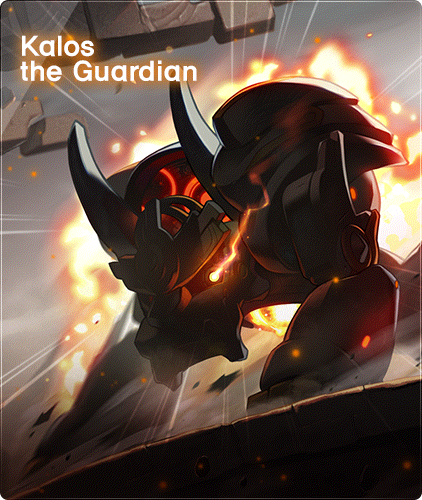
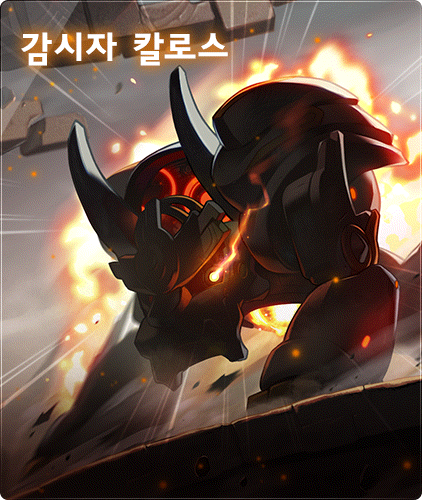
보스 정보 카드 큰 그림을 한글판으로: KMS 22장·벨로나, 아케치·노히메는 일본어판
- KMS v.389 UI/UIBoss.img 보스 목록 큰 그림 22장. 서버마다 번호가 달라 GMS 그림과 글자 아래쪽 모양을 대조해 짝지음. 스우는 KMS판이 다른 일러스트
- 벨로나: 메이플 위키의 KMS 보스 UI 그림, 카드에 새로 연결
- 아케치·노히메: KMS에 없는 일본 보스라 JMS v.444 그림
- 림보·발드릭스·최초의 대적자·찬란한 흉성·유피테르는 한글판을 아직 못 구해 GMS 그림 그대로
- 카드 그림 주소에 ?v를 붙여 서비스 워커가 옛 그림을 내주지 않게

Changed region(s): [[0.0308, 0.03, 0.5545, 0.18]]

diff --git a/GMS_WEEK_BOSS/bosshp.js b/GMS_WEEK_BOSS/bosshp.js
@@ -9,6 +9,10 @@ const _bhpDiffMeta = kr => DIFF_META[DIFF_KR_TO_ENG[kr] || 'normal'];
 // 파일명 stem(Bellona)으로 images/bosses_gif/Bellona.gif 를 자동으로 찾아간다.
 // 배포 환경(리눅스)은 대소문자를 구분하므로 png/gif의 stem 대소문자가 정확히 같아야 한다.
 const BOSS_IMG_EXTRA = { '벨로나': 'images/bosses/Bellona.png' };
+// 위와 같은 보스의 카드 그림 파일 이름. images/official/boss_card/<이름>.png
+const BOSS_CARD_EXTRA = { '벨로나': 'bellona' };
+// 카드 그림을 같은 파일 이름으로 바꿀 때 서비스 워커가 옛 그림을 내주지 않도록 v를 올린다
+const _bhpCardSrc = id => `images/official/boss_card/${id}.png?v=20261031a`;
 const bossHPActiveDiffs = {};
 const busChecked = new Set(); // 버스 참조에 추가된 보스명
 const busDiffs   = {};        // 버스 패널 전용 난이도 선택
@@ -270,15 +274,22 @@ function renderBossHPTable() {
     seen[b.name].diffs.push(b);
   });
 
-  /* 카드 그림은 GMS v.270 게임 파일 UI/UIBoss.img 보스 목록의 큰 그림 422×500이고 영문 보스 이름이 그림에 들어 있다.
+  /* 카드 그림은 게임 파일 UI/UIBoss.img 보스 목록의 큰 그림 422×500이고 보스 이름 글자가 그림에 들어 있다. 지수 요청으로 한글판을 쓴다.
+     - KMS v.389 그림 22장: 서버마다 번호가 달라 GMS 그림과 글자 아래쪽 모양을 대조해 짝지었다. 스우는 KMS 그림이 GMS와 다른 일러스트다
+     - 벨로나: 메이플 위키에 올라온 KMS 그림
+     - 아케치·노히메: KMS에 없는 일본 보스라 JMS v.444 일본어 그림
+     - 림보·발드릭스·최초의 대적자·찬란한 흉성·유피테르: KMS v.389 뒤에 나와 한글판을 아직 못 구해 GMS 영문 그림
      boss.img는 드랍 팝업이 GIF를 찾는 이름으로 쓰므로 그대로 두고 카드 그림만 따로 든다 */
   BOSS_DATA.forEach(bd => {
     const key = Object.keys(seen).find(k => norm(k) === norm(bd.name));
-    if (key) { seen[key].img = bd.img; seen[key].card = `images/official/boss_card/${bd.id}.png`; seen[key].monthly = !!bd.monthly; }
+    if (key) { seen[key].img = bd.img; seen[key].card = _bhpCardSrc(bd.id); seen[key].monthly = !!bd.monthly; }
   });
-  // 보스 수익 계산기(BOSS_DATA)엔 없고 이 페이지에만 있는 보스의 이미지(BOSS_IMG_EXTRA).
+  // 보스 수익 계산기(BOSS_DATA)엔 없고 이 페이지에만 있는 보스의 이미지(BOSS_IMG_EXTRA)와 카드 그림(BOSS_CARD_EXTRA).
   Object.entries(BOSS_IMG_EXTRA).forEach(([n, src]) => {
     if (seen[n] && !seen[n].img) seen[n].img = src;
+  });
+  Object.entries(BOSS_CARD_EXTRA).forEach(([n, id]) => {
+    if (seen[n] && !seen[n].card) seen[n].card = _bhpCardSrc(id);
   });
 
   renderBusPanel(groups);

diff --git a/GMS_WEEK_BOSS/index.html b/GMS_WEEK_BOSS/index.html
@@ -926,7 +926,7 @@
 <script src="liberation.js?v=20261030b"></script>
 <script src="starforce_sim.js?v=20261027b"></script>
 <script src="cube.js?v=20261030c"></script><script src="familiar.js?v=20261030a"></script><script src="soulsim.js?v=20261027f"></script><script src="polish.js?v=20261030a"></script><script src="mixdye_layer.js?v=20261028a"></script><script src="mixdye.js?v=20261030b"></script><script src="data_frontier.js?v=20260825g"></script><script src="frontier.js?v=20261030b"></script><script src="meundi.js?v=20261029a"></script><script src="victorypose.js?v=20261030b"></script><script src="mysticseal.js?v=20261031a"></script><script src="myutil.js?v=20261031i"></script>
-<script src="addoption.js?v=20261030a"></script><script src="bosshp.js?v=20261030b"></script>
+<script src="addoption.js?v=20261030a"></script><script src="bosshp.js?v=20261031a"></script>
 
 <script src="dailytasks.js?v=20261027t"></script>
 <script src="wantchannel.js?v=20261027b"></script>
